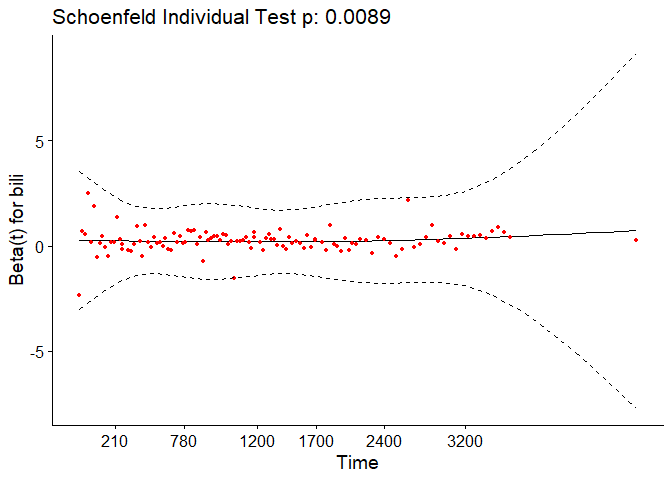
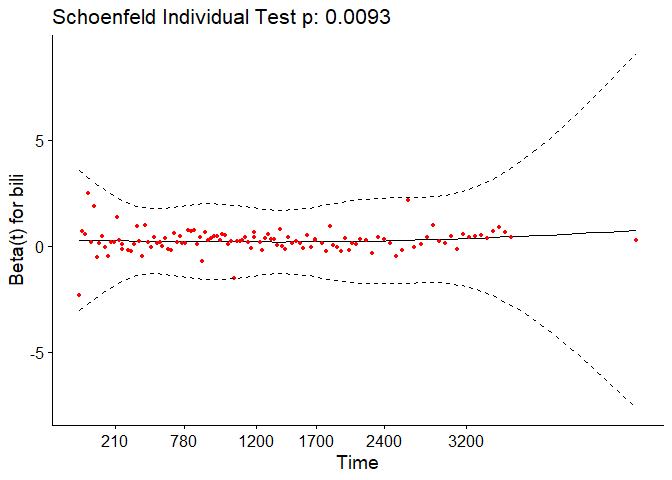
update site

diff --git a/index.md b/index.md
@@ -216,7 +216,7 @@ The algorithm:
 
 <center>
 
-![](img/weights.png)
+<img src="img/weights2.png" width="462" />
 
 </center>
 
@@ -299,7 +299,7 @@ The integrated Brier scores are given by:
 
 <center>
 
-![](img/ibs.png)
+<img src="img/ibs.png.png" width="257" />
 
 </center>
 
@@ -330,8 +330,8 @@ contains many covariates collected during the clinical trial.
 
 <table>
 <colgroup>
-<col style="width: 8%" />
-<col style="width: 91%" />
+<col style="width: 36%" />
+<col style="width: 63%" />
 </colgroup>
 <thead>
 <tr class="header">
@@ -480,18 +480,18 @@ model as a whole.
     test.ph
 
     ##             chisq df       p
-    ## age        10.855  1 0.00099
-    ## edema       1.127  1 0.28835
-    ## bili        6.850  1 0.00886
-    ## albumin     3.640  1 0.05640
-    ## copper      0.956  1 0.32831
-    ## ast         0.729  1 0.39336
-    ## protime    14.456  1 0.00014
-    ## stage      17.276  1 3.2e-05
-    ## age:edema   1.063  1 0.30243
-    ## age:copper  0.305  1 0.58047
-    ## bili:ast   12.027  1 0.00052
-    ## GLOBAL     63.518 11 2.0e-09
+    ## age        10.869  1 0.00098
+    ## edema       1.109  1 0.29228
+    ## bili        6.760  1 0.00932
+    ## albumin     3.589  1 0.05816
+    ## copper      0.917  1 0.33837
+    ## ast         0.709  1 0.39969
+    ## protime    14.486  1 0.00014
+    ## stage      17.349  1 3.1e-05
+    ## age:edema   1.044  1 0.30698
+    ## age:copper  0.281  1 0.59625
+    ## bili:ast   11.952  1 0.00055
+    ## GLOBAL     63.574 11 2.0e-09
 
 ![](index_files/figure-markdown_strict/unnamed-chunk-16-1.png)![](index_files/figure-markdown_strict/unnamed-chunk-16-2.png)![](index_files/figure-markdown_strict/unnamed-chunk-16-3.png)![](index_files/figure-markdown_strict/unnamed-chunk-16-4.png)![](index_files/figure-markdown_strict/unnamed-chunk-16-5.png)
 
@@ -639,8 +639,8 @@ negligible.
     ## Integrated Brier score (crps):
     ## 
     ##         AppErr BootCvErr
-    ## rsf      0.041     0.068
-    ## cforest  0.054     0.073
+    ## rsf      0.041     0.067
+    ## cforest  0.054     0.072
 
 ![](index_files/figure-markdown_strict/unnamed-chunk-27-1.png)
 
@@ -654,8 +654,8 @@ information.
 
 <table>
 <colgroup>
-<col style="width: 2%" />
-<col style="width: 97%" />
+<col style="width: 36%" />
+<col style="width: 63%" />
 </colgroup>
 <thead>
 <tr class="header">
@@ -951,6 +951,8 @@ as time increases.
 ![](index_files/figure-markdown_strict/unnamed-chunk-47-1.png)
 
 ## Closing Thoughts
+
+## References:
 
 {% include lib/mathjax.html %}
 
